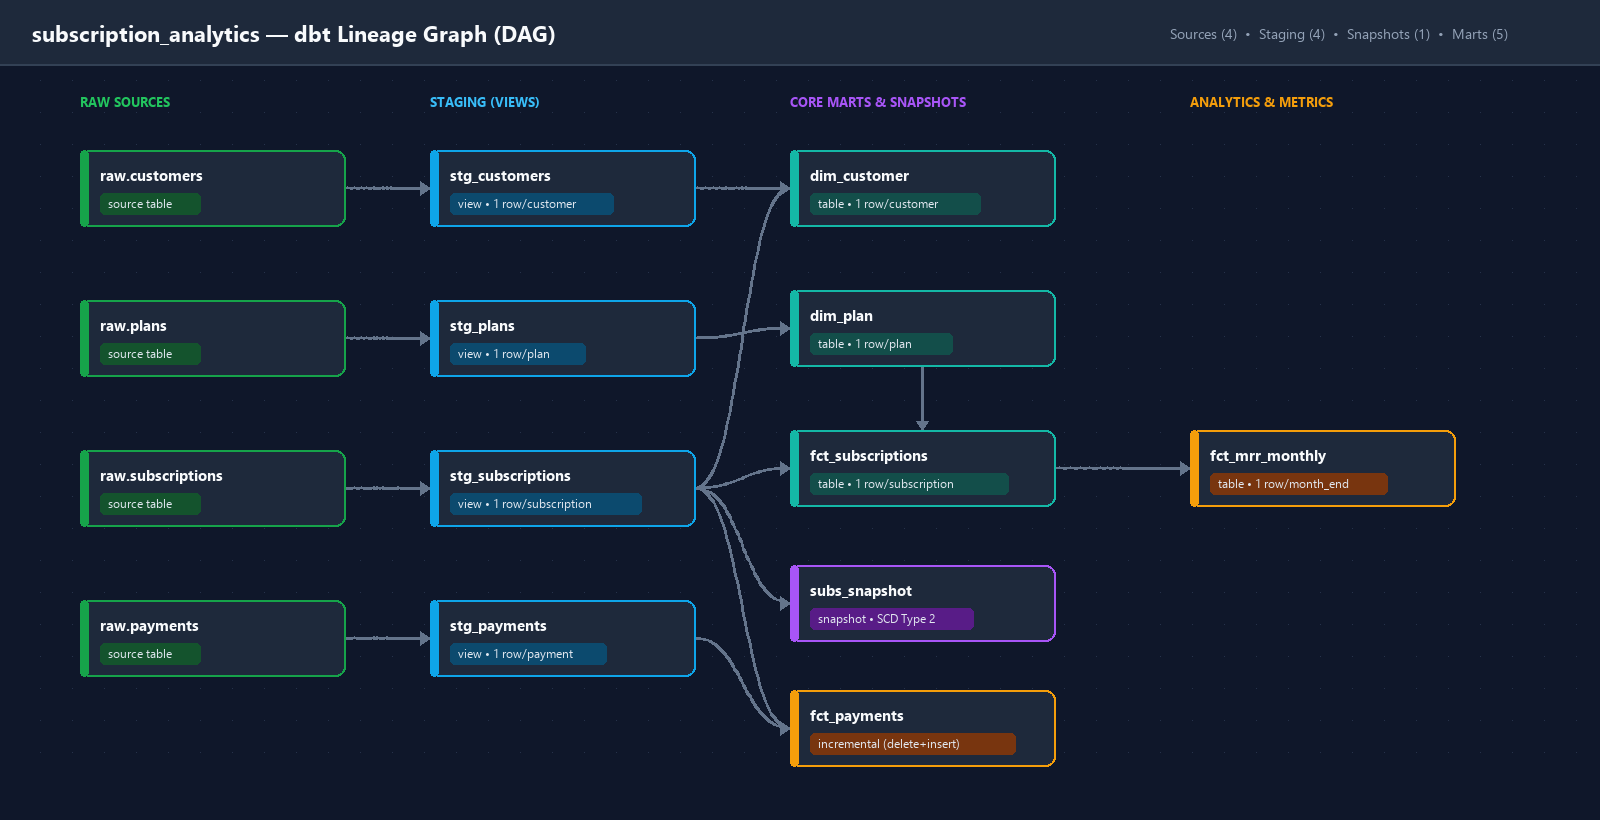
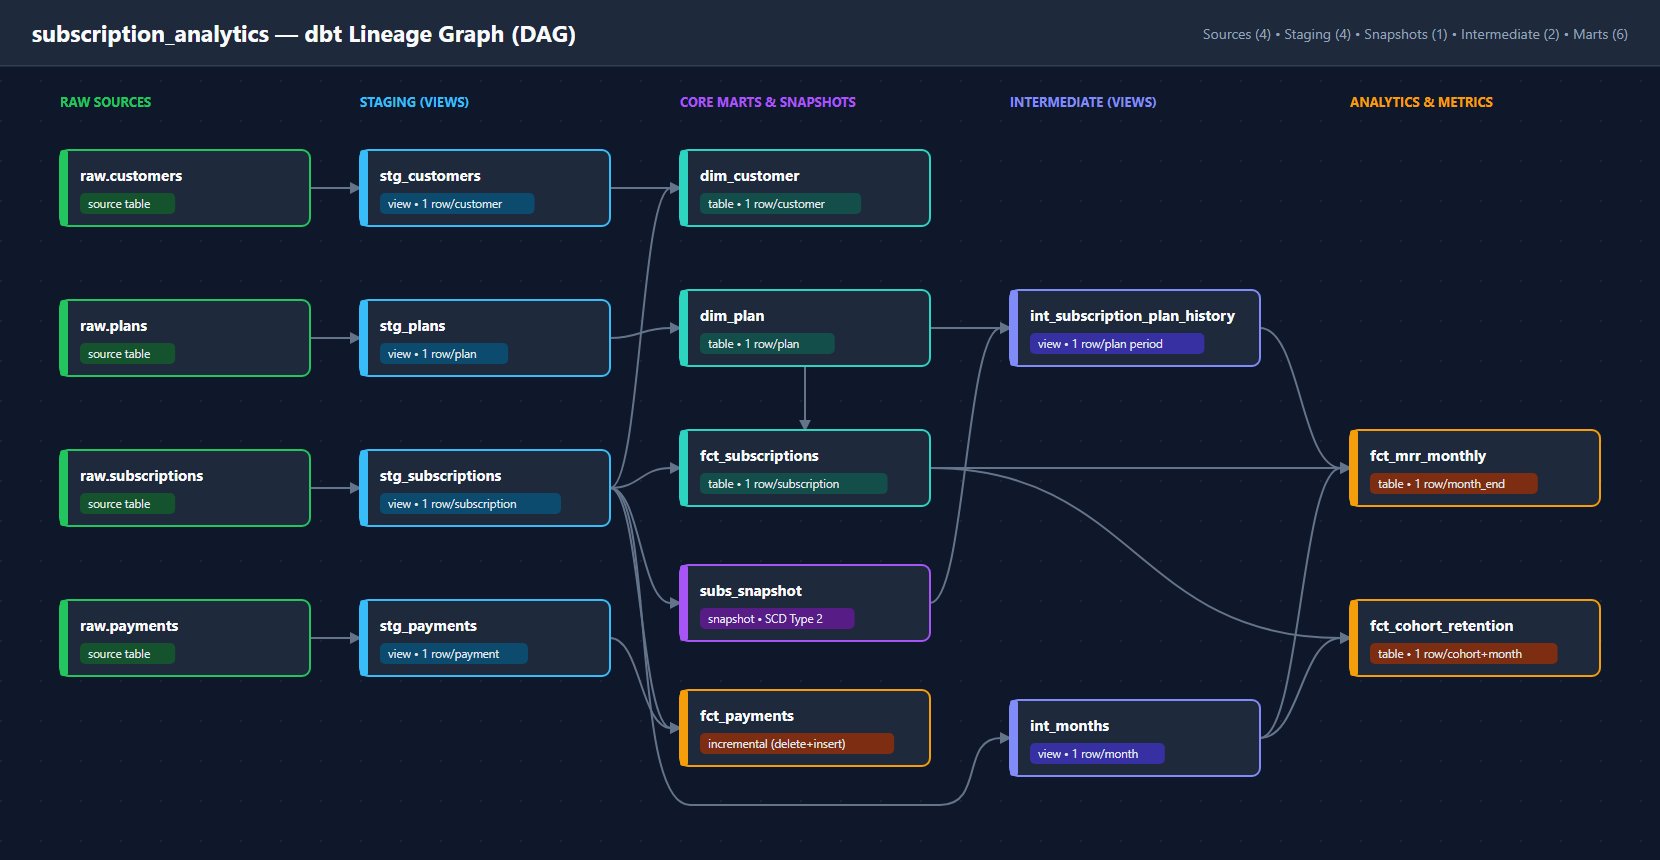
Update README and lineage diagram for new models and tests

diff --git a/README.md b/README.md
@@ -1,13 +1,13 @@
 # Subscription Analytics (dbt + DuckDB)
 
 [![dbt CI](https://github.com/aleks-al-aleksandrov/subscription-analytics-dbt/actions/workflows/dbt.yml/badge.svg)](https://github.com/aleks-al-aleksandrov/subscription-analytics-dbt/actions/workflows/dbt.yml)
-[!dbt](https://img.shields.io/badge/dbt-v1.12-FF694B?style=flat&logo=dbt&logoColor=white)
-[!DuckDB](https://img.shields.io/badge/DuckDB-v1.11-FFF000?style=flat&logo=duckdb&logoColor=black)
-[!Airflow](https://img.shields.io/badge/Airflow-Astro_CLI-017CEE?style=flat&logo=apacheairflow&logoColor=white)
-[Tests](https://img.shields.io/badge/tests-84%20passed-success?style=flat)
-[!Python](https://img.shields.io/badge/python-3.13-3776AB?style=flat&logo=python&logoColor=white)
+![dbt](https://img.shields.io/badge/dbt-v1.12-FF694B?style=flat&logo=dbt&logoColor=white)
+![DuckDB](https://img.shields.io/badge/DuckDB-v1.11-FFF000?style=flat&logo=duckdb&logoColor=black)
+![Airflow](https://img.shields.io/badge/Airflow-Astro_CLI-017CEE?style=flat&logo=apacheairflow&logoColor=white)
+![Tests](https://img.shields.io/badge/tests-109%20passed-success?style=flat)
+![Python](https://img.shields.io/badge/python-3.13-3776AB?style=flat&logo=python&logoColor=white)
 
-> **An end-to-end analytics engineering project**: staging views, dimensional marts, incremental payments with a 7-day lookback window, SCD Type 2 subscription snapshots, MRR metrics, 84 schema & custom financial tests, and containerized Airflow orchestration.
+> **An end-to-end analytics engineering project**: staging views, dimensional marts, incremental payments with an ingestion-time watermark, SCD Type 2 subscription snapshots, MRR, churn and cohort retention metrics, 103 schema & custom financial tests plus 6 unit tests, source freshness checks, and containerized Airflow orchestration.
 
 ---
 
@@ -21,7 +21,7 @@
 - [Architectural Decisions & Trade-offs](#architectural-decisions---trade-offs)
 - [Incremental Loading (fct_payments)](#incremental-loading-fct_payments)
 - [Snapshots & SCD Type 2 History (subs_snapshot)](#snapshots---scd-type-2-history-subs_snapshot)
-- [Metrics (fct_mrr_monthly)](#metrics-fct_mrr_monthly)
+- [Metrics (fct_mrr_monthly, fct_cohort_retention)](#metrics-fct_mrr_monthly-fct_cohort_retention)
 - [Data Quality & Test Coverage](#data-quality---test-coverage)
 - [Orchestration with Airflow](#orchestration-with-airflow)
 - [Project Constraints & Known Limitations](#project-constraints---known-limitations)
@@ -50,8 +50,13 @@ staging (views)               models/staging
         +---> snapshots (SCD Type 2)     snapshots/subs_snapshot.sql
         |
         v
+intermediate (views)          models/intermediate
+  int_months, int_subscription_plan_history
+        |
+        v
 marts (tables & incremental)  models/marts
-  dim_customer, dim_plan, fct_subscriptions, fct_payments (incremental), fct_mrr_monthly
+  dim_customer, dim_plan, fct_subscriptions, fct_payments (incremental),
+  fct_mrr_monthly, fct_cohort_retention
 ```
 
 I keep the layers strict:
@@ -59,6 +64,7 @@ I keep the layers strict:
 - **raw** is an untouched copy of the source CSVs loaded into the `raw` schema.
 - **staging** (`models/staging/`) has one view per source table. This is where I rename, cast, trim, standardize casing, and deduplicate. No joins happen here.
 - **snapshots** (`snapshots/subs_snapshot.sql`) captures SCD Type 2 history (`dbt_valid_from`, `dbt_valid_to`) on top of `stg_subscriptions` across multiple loads.
+- **intermediate** (`models/intermediate/`) holds building blocks shared by several marts: the calendar month spine and the plan history of each subscription derived from the snapshot.
 - **marts** (`models/marts/`) joins staging models into dimensions, facts, and monthly metrics, each with a documented grain and schema tests.
 
 ### Model Catalog & Grain
@@ -74,7 +80,10 @@ I keep the layers strict:
 | `dim_plan` | Marts | Table | One row per plan (with normalized `monthly_price_eur`) | `plan_id` |
 | `fct_subscriptions` | Marts | Table | One row per subscription (with `monthly_value_eur` and `tenure_days`) | `subscription_id` |
 | `fct_payments` | Marts | Incremental (`delete+insert`) | One row per payment transaction | `payment_id` |
+| `int_months` | Intermediate | View | One row per calendar month in the dataset | `month_start_date` |
+| `int_subscription_plan_history` | Intermediate | View | One row per subscription and plan validity period | `subscription_id` + `valid_from_date` |
 | `fct_mrr_monthly` | Marts | Table | One row per calendar month (`month_end_date`) | `month_end_date` |
+| `fct_cohort_retention` | Marts | Table | One row per start-month cohort and months since start | `cohort_month` + `months_since_start` |
 
 ## Data
 
@@ -132,21 +141,31 @@ dbt docs serve --profiles-dir .
 
 ```sql
 {% if is_incremental() %}
-where payment_date >= (
-    select max(payment_date) - interval '7 days'
+watermark as (
+    select max(created_at) - interval '7 days' as reload_from
     from {{ this }}
-)
+),
+{% endif %}
+...
+{% if is_incremental() %}
+cross join watermark
+where payments.created_at >= watermark.reload_from
+   or subscriptions.updated_at >= watermark.reload_from
 {% endif %}
 ```
 
 ### How it runs
 
 1. **Initial run (or `dbt run --select fct_payments --full-refresh`)**: `is_incremental()` evaluates to `false`, so dbt builds `main.fct_payments` from the entire `stg_payments` view (`14,111` rows for `--as-of 2026-06-30`).
-2. **Subsequent incremental runs (`dbt run --select fct_payments`)**: `is_incremental()` evaluates to `true`. dbt selects only rows from `stg_payments` with `payment_date >= max(payment_date) - interval '7 days'`, stages them in a temporary table, deletes matching `payment_id` rows from `main.fct_payments`, and inserts the staged rows (`18,272` total rows after `--as-of 2026-09-30`).
+2. **Subsequent incremental runs (`dbt run --select fct_payments`)**: `is_incremental()` evaluates to `true`. dbt selects only the rows from `stg_payments` that landed since the last run (`created_at >= max(created_at) - interval '7 days'`) or that belong to a subscription changed since then (`updated_at` on `stg_subscriptions`), stages them in a temporary table, deletes matching `payment_id` rows from `main.fct_payments`, and inserts the staged rows (`18,272` total rows after `--as-of 2026-09-30`).
 
-### Why a 7-day lookback window?
+### Why filter on `created_at` and not `payment_date`?
 
-In the source data, around 2% of payments arrive 3–6 days after their `payment_date` (`created_at > payment_date`). Filtering strictly on `payment_date > max(payment_date)` would miss transactions whose `payment_date` falls before the high-water mark but landed in the source system days later. A 7-day lookback window covers the 3–6 day arrival lag while keeping incremental scans small. Because `unique_key='payment_id'` is set, re-reading the last 7 days overwrites existing rows cleanly without creating duplicates.
+In the source data, around 2% of payments arrive 3–6 days after their `payment_date` (`created_at > payment_date`). The first version of this model filtered on `payment_date >= max(payment_date) - 7 days`. That covers a 3–6 day lag, but a payment arriving more than 7 days late would be skipped silently. `created_at` is the time the row landed in the source system, so a late row always has a `created_at` above the previous high-water mark, whatever its `payment_date` is. The 7-day lookback stays as a safety margin for rows committed out of order. Because `unique_key='payment_id'` is set, re-reading those days overwrites existing rows without creating duplicates.
+
+### Why reload payments of changed subscriptions?
+
+`current_plan_id` comes from a join to `stg_subscriptions`. With a filter on payments alone, old payment rows kept the plan the subscription had when they were first loaded: after the `2026-09-30` batch, `153` payments on `36` subscriptions still pointed at the previous plan. The second condition (`subscriptions.updated_at >= watermark.reload_from`) reloads every payment of a subscription that changed, and `assert_payment_plan_is_current.sql` fails the build if the column ever drifts again.
 
 ### Why `delete+insert` instead of `merge`?
 
@@ -154,7 +173,7 @@ In the source data, around 2% of payments arrive 3–6 days after their `payment
 - **Trade-offs & risks**:
   - `delete+insert` replaces the entire row for matched keys, which is ideal here because we want the latest state of every column in the lookback window.
   - On cloud warehouses with large partitioned/clustered tables, `merge` can sometimes avoid rewriting unchanged columns, whereas `delete+insert` marks deleted rows and appends new micro-partitions.
-  - If a payment arrived more than 7 days late, the lookback window would miss it; a periodic `--full-refresh` (or filtering on an ingestion watermark with a lookback) would be needed to catch extreme outliers.
+  - Reloading all payments of a changed subscription rewrites more rows than strictly needed. That is cheap at this volume; on a large fact table I would keep the plan out of the fact and join the dimension at query time instead.
 
 ## Snapshots & SCD Type 2 History (`subs_snapshot`)
 
@@ -177,7 +196,7 @@ Example rows from `snapshots.subs_snapshot`:
 | `sub_00095` | `standard_m` | `active` | `2026-03-06 00:00:00` | `2026-09-29 00:00:00` | Initial `standard_m` plan |
 | `sub_00095` | `basic_m` | `active` | `2026-09-29 00:00:00` | `NULL` | Downgraded to `basic_m` on `2026-09-29` |
 
-## Metrics (`fct_mrr_monthly`)
+## Metrics (`fct_mrr_monthly`, `fct_cohort_retention`)
 
 `fct_mrr_monthly` summarizes Monthly Recurring Revenue at a calendar-month grain (`month_end_date` is the primary key).
 
@@ -187,13 +206,27 @@ Example rows from `snapshots.subs_snapshot`:
 - **Normalized monthly recurring value (`monthly_value_eur`)**:
   - Monthly plans contribute their full `price_eur` (`9.00`, `19.00`, or `39.00` EUR).
   - Annual plans (`standard_a` at `190.00` EUR/year) are normalized to `round(price_eur / 12.0, 2)` (`15.83` EUR/month).
+- **Plan at month-end**: Each active subscription is priced at the plan it was on at `month_end_date`, taken from `int_subscription_plan_history` (built on `subs_snapshot`), not at its current plan. A subscription that downgraded in September still counts at its old price in August: August 2026 MRR is `29,820.67` EUR with historical plans, against `29,830.67` EUR if every subscription were priced at its current plan.
 - **`mrr_eur`**: The sum of `monthly_value_eur` across all subscriptions active as of `month_end_date` (`30,009.16` EUR as of `2026-09-30` across `1,735` active subscriptions).
 - **`arr_eur`**: `mrr_eur * 12` (`360,109.92` EUR as of `2026-09-30`).
-- **Month spine**: Generated dynamically from `min(started_date)` through `max(updated_at)` so every month in the dataset range is represented.
+- **`subscription_churn_rate`**: `churned_subscriptions` in the month divided by `active_subscriptions` at the end of the previous month (`17 / 1,723 = 0.0099` for September 2026). It is null for the first month, which has no previous month.
+- **Month spine**: `int_months` is generated dynamically from `min(started_date)` through `max(updated_at)` so every month in the dataset range is represented.
+
+### Cohort retention (`fct_cohort_retention`)
+
+Subscriptions are grouped by the month they started (`cohort_month`). For every later month the model counts how many of them are still active at month-end (`retained_subscriptions`) and divides by `cohort_size` to get `retention_rate`. Example, the June 2025 cohort of `99` subscriptions:
+
+| `months_since_start` | `retained_subscriptions` | `retention_rate` |
+| :--- | :--- | :--- |
+| `0` | `99` | `1.0000` |
+| `3` | `97` | `0.9798` |
+| `6` | `95` | `0.9596` |
+| `12` | `86` | `0.8687` |
+| `15` | `84` | `0.8485` |
 
 ## Data Quality & Test Coverage
 
-The project runs **84 data tests** (`94` total build steps including models and snapshot) across generic schema assertions and custom singular SQL tests:
+The project runs **103 data tests** and **6 unit tests** (`122` total build steps including models and snapshot) across generic schema assertions, custom singular SQL tests and unit tests on fixed input rows:
 
 ### What is covered by tests
 
@@ -206,13 +239,25 @@ The project runs **84 data tests** (`94` total build steps including models and 
    - `assert_no_conflicting_raw_duplicates.sql`: Checks `raw.payments` and `raw.customers` to ensure duplicate primary keys never contain conflicting cleaned business attributes (preventing `row_number()` deduplication from silently hiding data corruption).
    - `assert_payment_reconciliation.sql`: Financial reconciliation test ensuring the count and total `amount_eur` of successful payments (`is_successful = true`) in `fct_payments` match `stg_payments` to the cent.
    - `assert_mrr_sanity.sql`: Ensures monthly MRR and active subscription counts are strictly positive and non-null for every calendar month in `fct_mrr_monthly`, preventing an empty or unloaded month from silently displaying as `0.00` EUR MRR.
+   - `assert_payment_plan_is_current.sql`: Ensures `fct_payments.current_plan_id` equals the subscription's plan in `stg_subscriptions`, so an incremental run cannot leave stale plans on old payments.
+   - `assert_plan_history_one_current_version.sql`: Ensures every subscription has exactly one current plan version and no two versions starting on the same day, so the MRR join to the plan history cannot fan out.
+   - `assert_mrr_matches_current_subscriptions.sql`: Reconciles two independent calculations: the latest month of `fct_mrr_monthly` (plans from the snapshot history) must equal the sum over active rows in `fct_subscriptions`.
+   - `assert_cohort_retention_valid.sql`: Ensures one row per cohort and month, retained subscriptions never above the cohort size, and retention never increasing from one month to the next.
+5. **Unit tests (`_staging_unit_tests.yml`, `_intermediate.yml`, `_marts_unit_tests.yml`)**: Data tests check the rows that happen to be loaded; unit tests check the logic itself on a few hand-written input rows, before the model is built.
+   - `stg_customers`: duplicates collapse to the latest `updated_at`; email and country are cleaned; empty email becomes null.
+   - `stg_payments`: exact duplicates collapse to one row; `is_successful` and `is_late_arrival` are set correctly.
+   - `dim_plan`: an annual price of `190.00` becomes `15.83` per month.
+   - `dim_customer`: one row per customer with several subscriptions; a customer with no subscription is inactive, not null.
+   - `fct_payments` in incremental mode: a new payment, a payment that is two months late and an old payment on a subscription that changed plan are reloaded; an untouched old payment is skipped.
+   - `int_subscription_plan_history`: the first version starts at the subscription start date, later versions at their snapshot date, and only the open version is current.
+6. **Source freshness (`dbt source freshness`)**: `scripts/load_raw.py` stamps every raw row with `_loaded_at`. `_sources.yml` warns when a raw table is older than 24 hours and errors after 72 hours. CI runs the check after each load.
 
 ### What remains uncovered
 
-- **Source freshness / SLA checks**: Because the data is generated locally from CSVs rather than streamed from a live production database, `dbt source freshness` is not configured.
-- **Late arrivals beyond the 7-day lookback window**: If a payment arrives more than 7 days after its `payment_date` and after the high-water mark has advanced, an incremental run of `fct_payments` would not pick it up until `assert_payment_reconciliation.sql` flags the discrepancy or a `--full-refresh` is run.
-- **Historical MRR plan transitions**: `fct_mrr_monthly` joins against `fct_subscriptions` (current plan) rather than `snapshots.subs_snapshot`, so past months reflect the subscription's current plan rather than the historical plan prior to an upgrade/downgrade.
-- **`fct_payments.current_plan_id`**: This is the subscription's current plan, not the plan at payment time.
+- **Freshness of the source system itself**: `_loaded_at` says when the CSVs were loaded, not when the source last produced data. With a real source I would point `loaded_at_field` at an ingestion timestamp written by the extract tool.
+- **Rows changed in place in the source**: The incremental filter on `fct_payments` relies on `created_at`. If the source updated an old payment without touching `created_at` (for example a status correction), an incremental run would not pick it up until `assert_payment_reconciliation.sql` flags the discrepancy or a `--full-refresh` is run.
+- **Plan changes before the first snapshot**: The snapshot only knows the plans it has seen. A subscription that changed plan before the first `dbt snapshot` run (`2026-06-30`) has no older version, so `int_subscription_plan_history` stretches its first known plan back to the start date and earlier months are priced at that plan. Changes after the first snapshot are priced correctly.
+- **`fct_payments.current_plan_id`**: This is the subscription's current plan (kept current on every incremental run), not the plan at payment time.
 
 ## Orchestration with Airflow
 
@@ -231,7 +276,7 @@ astro dev start
 
 Open the Airflow UI at `http://localhost:8080` and trigger the `subscription_pipeline` DAG twice:
 
-1. **First run (`as_of = "2026-06-30"`)**: Generates the initial dataset, loads `raw.*`, runs `dbt build` (`94/94` checks green), and verifies via `scripts/report_counts.py` that `fct_payments` (`14,111` rows) matches `stg_payments`.
+1. **First run (`as_of = "2026-06-30"`)**: Generates the initial dataset, loads `raw.*`, runs `dbt build` (`122/122` checks green), and verifies via `scripts/report_counts.py` that `fct_payments` (`14,111` rows) matches `stg_payments`.
 2. **Second run (`as_of = "2026-09-30"`)**: Generates the second batch, loads `raw.*`, runs the incremental update on `fct_payments` (`18,272` rows) and SCD Type 2 snapshot on `subs_snapshot` (`2,084` total rows, `84` closed historical versions), and passes the `report_counts` reconciliation gate.
 
 ### Key orchestration design choices

diff --git a/subscription_analytics/README.md b/subscription_analytics/README.md
@@ -6,8 +6,9 @@ This folder contains the dbt project. See the root [`README.md`](../README.md) f
 
 - `models/staging/`: Views (`stg_customers`, `stg_plans`, `stg_subscriptions`, `stg_payments`), source definitions (`_sources.yml`), and staging schema tests (`_staging.yml`).
 - `snapshots/`: SCD Type 2 snapshot (`subs_snapshot.sql`) and snapshot schema tests (`_snapshots.yml`).
-- `models/marts/`: Dimension, fact, and metric models (`dim_customer`, `dim_plan`, `fct_subscriptions`, incremental `fct_payments`, `fct_mrr_monthly`) and schema tests (`_marts.yml`).
-- `tests/`: Singular SQL tests for business logic, raw duplicate conflict detection, MRR sanity, and financial reconciliation.
+- `models/intermediate/`: Shared building blocks (`int_months`, `int_subscription_plan_history`) with schema and unit tests (`_intermediate.yml`).
+- `models/marts/`: Dimension, fact, and metric models (`dim_customer`, `dim_plan`, `fct_subscriptions`, incremental `fct_payments`, `fct_mrr_monthly`, `fct_cohort_retention`), schema tests (`_marts.yml`) and unit tests (`_marts_unit_tests.yml`).
+- `tests/`: Singular SQL tests for business logic, raw duplicate conflict detection, MRR sanity, cohort retention, and financial reconciliation.
 
 ## Running Commands
 
@@ -15,6 +16,7 @@ From inside `subscription_analytics/` (with `.venv` activated and raw data loade
 
 ```powershell
 dbt debug --profiles-dir .
+dbt source freshness --profiles-dir .
 dbt build --profiles-dir .
 dbt docs generate --profiles-dir .
 dbt docs serve --profiles-dir .
